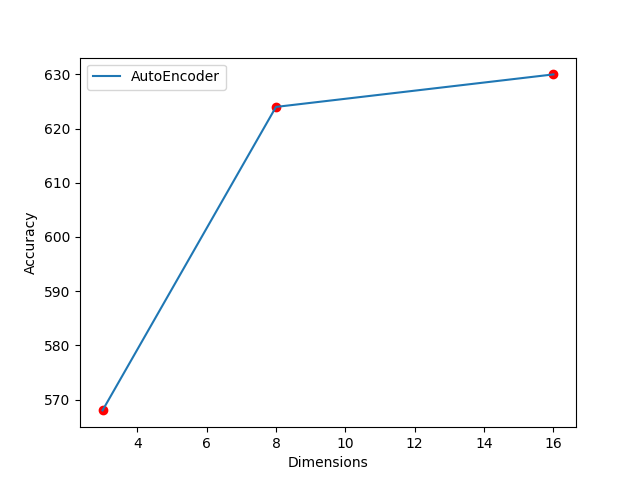
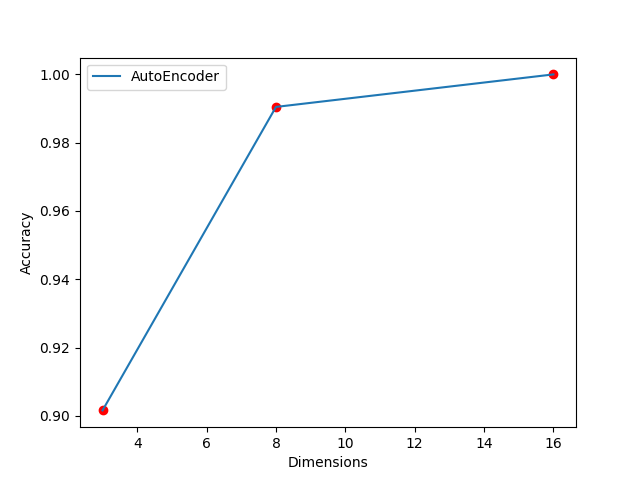
hw10 final version

diff --git a/hw10data/autoencoder.py b/hw10data/autoencoder.py
@@ -147,8 +147,9 @@ def NearestNeighbor(y_test, y_train, Y_train, Y_test):
 
 import matplotlib.pyplot as plt
 def plot_autoEncoder():
-    Y = [568,624,630]
-    X = [3,8,16]
+    Y = np.array([568,624,630])
+    Y=Y/630
+    X = np.array([3,8,16])
     plt.plot(X,Y,'ro')
     plt.plot(X,Y,label='AutoEncoder')
     plt.legend()

diff --git a/hw10PCA_LDA.py b/hw10PCA_LDA.py
@@ -30,7 +30,8 @@ def main():
     K = np.arange(29)
     pca_acc = []
     lda_acc = []
-    tot_samples=len(X_test)
+    tot_samples=X_test.shape[1]
+    print(tot_samples)
     for k in K:
         y_test_pca = W_pca[:,:k+1].T@(X_test-mg_test)
         y_train_pca = W_pca[:,:k+1].T@(X_train-mg_train)
